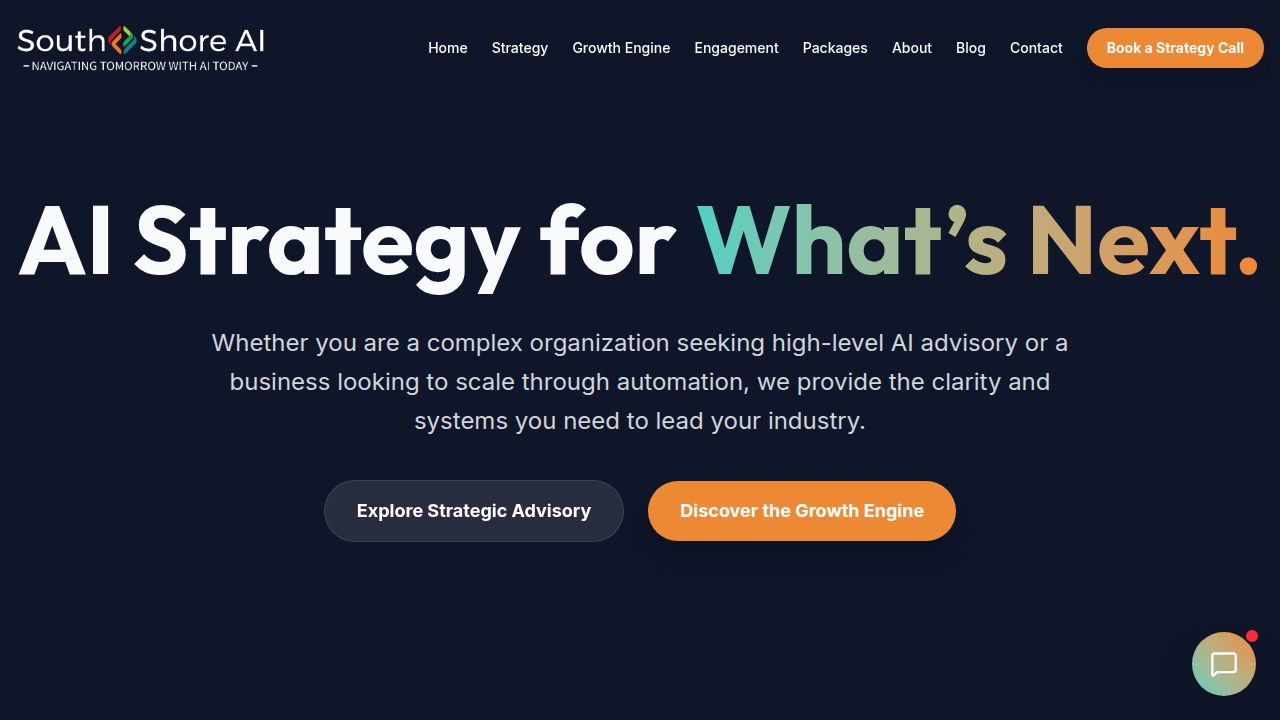
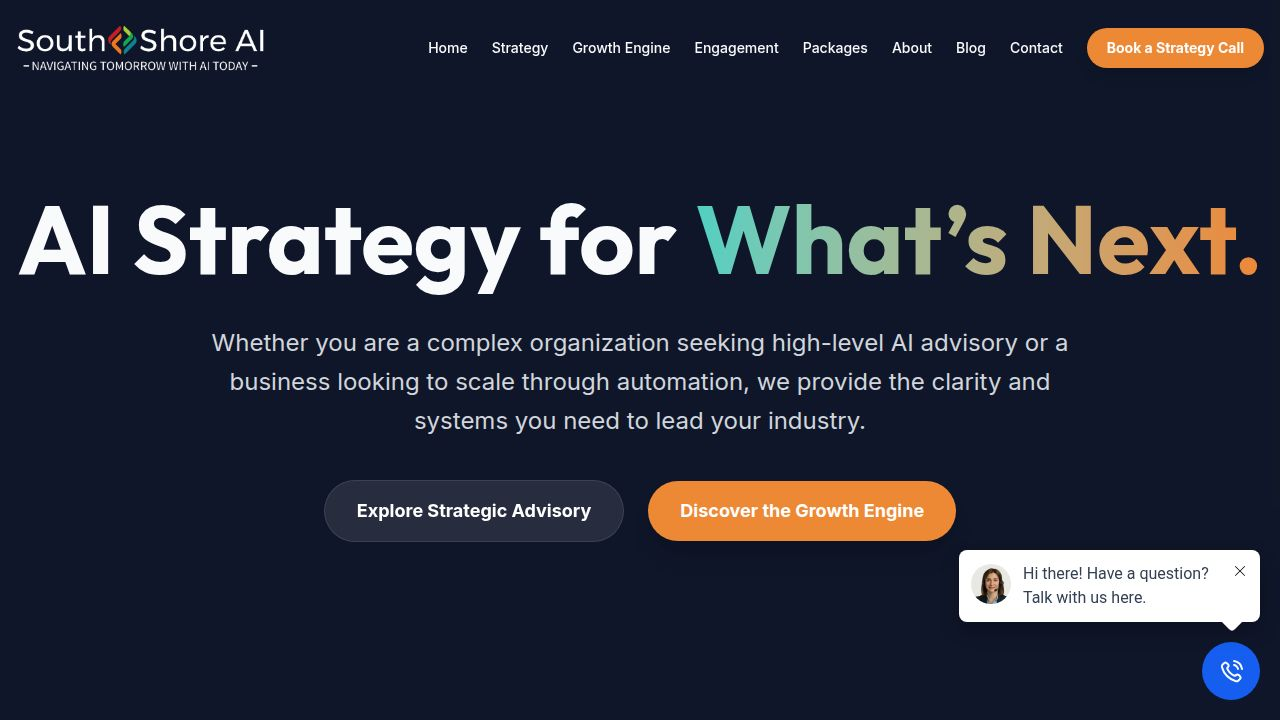
Add GoHighLevel chat widget to the website
Integrate the GoHighLevel chat widget script into client/index.html and remove the placeholder Chatbot component from client/src/pages/home.tsx.

Replit-Commit-Author: Agent
Replit-Commit-Session-Id: 5aba78dc-ecba-47a9-b50d-b96faf2f1006
Replit-Commit-Checkpoint-Type: full_checkpoint
Replit-Commit-Event-Id: bf9afd53-ddc5-4741-980b-e3bb5ae05496
Replit-Commit-Screenshot-Url: https://storage.googleapis.com/screenshot-production-us-central1/71676c37-8ee3-4c12-a361-6fb70aef59f8/5aba78dc-ecba-47a9-b50d-b96faf2f1006/6dgktok
Replit-Helium-Checkpoint-Created: true

Changed region(s): [[0.75, 0.7639, 1.0, 0.9778]]

diff --git a/client/index.html b/client/index.html
@@ -22,5 +22,10 @@
   <body>
     <div id="root"></div>
     <script type="module" src="/src/main.tsx"></script>
+    <script 
+      src="https://widgets.leadconnectorhq.com/loader.js"  
+      data-resources-url="https://widgets.leadconnectorhq.com/chat-widget/loader.js" 
+      data-widget-id="6962ab28668b0f3ee322a146"> 
+    </script>
   </body>
 </html>

diff --git a/client/src/pages/home.tsx b/client/src/pages/home.tsx
@@ -499,7 +499,6 @@ export default function Home() {
       <WhyUs />
       <CTA />
       <Footer />
-      <Chatbot />
     </div>
   );
 }
